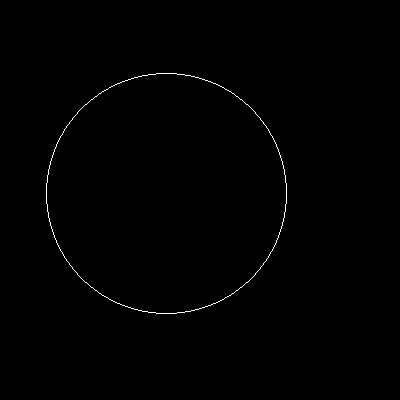
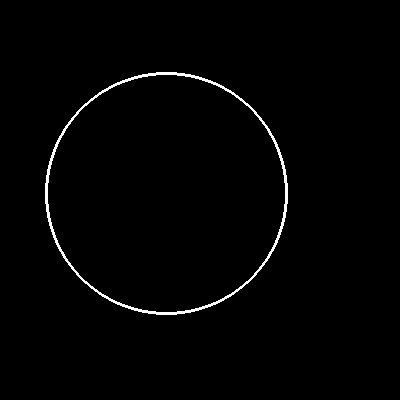
Mesh gen works for circles

diff --git a/meshGen.js b/meshGen.js
@@ -85,15 +85,18 @@ window.addEventListener('load', function(ev) {
 		let meshDone = false; // Break variable for edgemaking loop
 		let resolution = 10; // Determines the density of vertices, 1 vertex for every 'resolution' verts (higher # is lower res)
 		let circleSamples = resolution*resolution; // So we don't need to do this a lot, could be lower?
+		let lastAngle = 0; // Hold on to angle so check starts from last angle, not from top.
 		
 		while(true){ // Edge creation loop
 			
 			// Check all pixels 'resolution' distance away from current vert for edges clockwise.
 			// Could use a smaller number than resolution^2? Maybe res*log(res)?
+			// Edge data must be thicker than 1px, if it's 1px then it might miss checks on tight pixel diagonals
 			for(let i = 0; i < circleSamples; i++){
 				// (sampleX+currPX,sampleY+currPY) is the coordinates for the current sampled pixel
-				let sampleX = Math.floor(Math.cos((2*Math.PI*i)/circleSamples)*resolution);
-				let sampleY = Math.floor(Math.sin((2*Math.PI*i)/circleSamples)*resolution);
+				let sampleX = Math.floor(Math.cos((2*Math.PI*(i+lastAngle))/circleSamples)*resolution);
+				let sampleY = Math.floor(Math.sin((2*Math.PI*(i+lastAngle))/circleSamples)*resolution);
+				
 				
 				//console.log(sampleX+currPX);
 				//console.log(sampleY+currPY);
@@ -101,10 +104,13 @@ window.addEventListener('load', function(ev) {
 				// If sampled pixel has a red value of 255 (therefore is white/an edge), make it the new current vertex
 				if(data[4*((sampleX+currPX)+(canvas.width*(sampleY+currPY)))] >= 100){
 					
-					console.log(data[4*((sampleX+currPX)+(canvas.width*(sampleY+currPY)))]);
+					//console.log(data[4*((sampleX+currPX)+(canvas.width*(sampleY+currPY)))]);
 					
 					currPX = sampleX + currPX;
 					currPY = sampleY + currPY;
+					
+					lastAngle = lastAngle+i;
+					console.log(lastAngle);
 					
 					break;
 					
@@ -115,7 +121,7 @@ window.addEventListener('load', function(ev) {
 			
 			// If current vert is within 'resolution-1' px of another vert, end edge creation
 			while(typeof(vertices[iter]) !== 'undefined'){ 
-				if(Math.pow(vertices[iter]-currPX,2)+Math.pow(vertices[iter+1]-currPY,2) <= Math.pow(resolution-1,2)){
+				if(Math.pow(vertices[iter]-currPX,2)+Math.pow(vertices[iter+1]-currPY,2) <= Math.pow(resolution-4,2)){
 					meshDone = true;
 					break;
 				}
